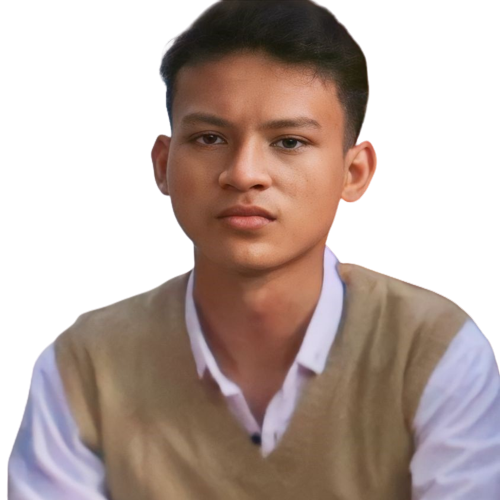
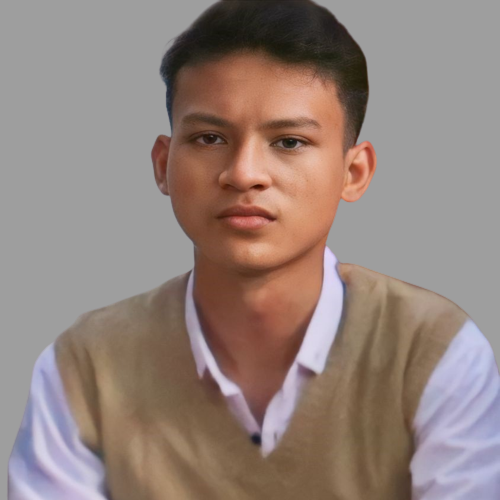
memperbaiki margin layar

diff --git a/index.html b/index.html
@@ -2,7 +2,7 @@
 <html lang="en">
   <head>
     <meta charset="utf-8" />
-    <meta name="viewport" content="width=device-width, initial-scale=1" />
+
     <title>Portfolio Fakhri Djamaris</title>
     <link href="https://cdn.jsdelivr.net/npm/bootstrap@5.3.1/dist/css/bootstrap.min.css" rel="stylesheet" integrity="sha384-4bw+/aepP/YC94hEpVNVgiZdgIC5+VKNBQNGCHeKRQN+PtmoHDEXuppvnDJzQIu9" crossorigin="anonymous" />
 
@@ -37,27 +37,27 @@
     </nav>
 
     <section class="jumbotron text-center text-white">
-      <img src="img/foto-saya.png" alt="Fakhri Djamaris" width="200" class="img-thumbnail rounded-circle" />
+      <img src="img/foto-saya.png" alt="Fakhri Djamaris" width="200" class="img-thumbnail-black rounded-circle" />
       <h1 class="display-4" data-aos="zoom-in-up" data-aos-duration="2000" data-aos-delay="1000">Fakhri Djamaris</h1>
       <p class="lead"></p>
       <svg xmlns="http://www.w3.org/2000/svg" viewBox="0 0 1440 320"><path fill="#ffffff" fill-opacity="1" d="M0,192L48,192C96,192,192,192,288,186.7C384,181,480,171,576,192C672,213,768,267,864,266.7C960,267,1056,213,1152,192C1248,171,1344,181,1392,186.7L1440,192L1440,320L1392,320C1344,320,1248,320,1152,320C1056,320,960,320,864,320C768,320,672,320,576,320C480,320,384,320,288,320C192,320,96,320,48,320L0,320Z"></path></svg>
     </section>
 
-    <section id="about" style="height: 780px">
+    <section id="about" style="min-height: 600px;">
       <div class="container">
-        <div class="row text-center mb-5" data-aos="fade-in" data-aos-duration="2000" data-aos-offset="550">
+        <div class="row text-center mb-4" data-aos="fade-in" data-aos-duration="2000" data-aos-offset="600">
           <div class="col">
             <h2>About Me</h2>
           </div>
         </div>
-        <div class="row justify-content-between fs-5 text-center">
-          <div class="col-md-4" data-aos="fade-right" data-aos-duration="1000" data-aos-offset="400">
+        <div class="row justify-content-center fs-5 text-center">
+          <div class="col-md-4" data-aos="fade-right" data-aos-duration="2000" data-aos-offset="550" >
             <p>
               I am a graduate of SMA Negeri 15 Medan, I have had an interest in learning computers since I was in junior high school. I was born in Medan and raised in Medan. I am the second of two children. Have a hobby of playing games,
               chess. My aspiration since childhood is to become an entrepreneur but maybe it has changed now.
             </p>
           </div>
-          <div class="col-md-4"data-aos="fade-left" data-aos-duration="1200">
+          <div class="col-md-4"data-aos="fade-left" data-aos-duration="2200" data-aos-delay="200" data-aos-offset="400">
             <p>
               Now I am an active student majoring in informatics engineering at the University of North Sumatra. During my studies I gained skills in the form of Microsoft Office tools, programming languages such as C, C++, Python, Java. I
               am interested in a career as a Data Analyst, Web Developer, and Android Developer, sorted from my biggest desire to the smallest.
@@ -74,36 +74,36 @@
             <h2>My Passion</h2>
           </div>
         </div>
-        <div class="row justify-content-center">
-          <div class="col-md-3">
+        <div class="row justify-content-evenly">
+          <div class="col-lg-3">
             <div class="card rounded mb-2" data-aos="zoom-in-up" data-aos-duration="2000">
               <a href="https://www.umn.ac.id/data-analyst-pengertian-tugas-dan-serba-serbinya/"><img src="img/data-analyst.jpg" class="card-img-top" alt="data analyst" /></a>
               <div class="card-body">
                 <h3 class="text-center">Data Analyst</h3>
-                <p class="card-text">
+                <p class="card-text text-center">
                   Data analyst is a job profession whose job is to read and analyze existing data from the company in order to sustain the company.
                 </p>
               </div>
             </div>
           </div>
-          <div class="col-md-3" data-aos="zoom-in-up" data-aos-duration="2000" data-aos-delay="200">
+          <div class="col-lg-3" data-aos="zoom-in-up" data-aos-duration="2000" data-aos-delay="200">
             <div class="card rounded mb-2">
               <a href="https://revou.co/panduan-karir/web-developer-adalah"><img src="img/web-developer.jpg" class="card-img-top" alt="web dev" height="200" /></a>
               <div class="card-body">
                 <h3 class="text-center">Website Developer</h3>
-                <p class="card-text">
+                <p class="card-text text-center">
                   A web developer is a person in charge of creating, designing, building, and maintaining websites. Web developers are generally divided into three specializations, namely front-end developers, back-end developers, and
                   full-stack developers. </a>
                 </p>
               </div>
             </div>
           </div>
-          <div class="col-md-3" data-aos="zoom-in-up" data-aos-duration="2000" data-aos-delay="400">
+          <div class="col-lg-3" data-aos="zoom-in-up" data-aos-duration="2000" data-aos-delay="400">
             <div class="card rounded mb-2">
               <a href="https://www.binaracademy.com/blog/android-developer-tanggung-jawab-skill-dan-karirnya"><img src="img/android-dev.jpg" class="card-img-top" alt="android dev" /></a>
               <div class="card-body">
                 <h3 class="text-center">Android Developer</h3>
-                <p class="card-text">
+                <p class="card-text text-center">
                   Android Developer can be said to be a software developer who specializes in designing applications for the Android marketplace.
                 </p>
               </div>
@@ -153,14 +153,14 @@
     </section>
 
     <footer class="bg-black text-white text-center p-3">
-      <div class="logo mt-3 mb-3">
+      <div class="logo pt-3 mt-3 mb-3">
         <a href="https://www.instagram.com/fdjmrs"><svg xmlns="http://www.w3.org/2000/svg" width="24"5 height="25" fill="currentColor" class="bi bi-instagram" data-aos="zoom-out-up" data-aos-duration="2000" data-aos-delay="2000" viewBox="0 0 16 16">
           <path d="M8 0C5.829 0 5.556.01 4.703.048 3.85.088 3.269.222 2.76.42a3.917 3.917 0 0 0-1.417.923A3.927 3.927 0 0 0 .42 2.76C.222 3.268.087 3.85.048 4.7.01 5.555 0 5.827 0 8.001c0 2.172.01 2.444.048 3.297.04.852.174 1.433.372 1.942.205.526.478.972.923 1.417.444.445.89.719 1.416.923.51.198 1.09.333 1.942.372C5.555 15.99 5.827 16 8 16s2.444-.01 3.298-.048c.851-.04 1.434-.174 1.943-.372a3.916 3.916 0 0 0 1.416-.923c.445-.445.718-.891.923-1.417.197-.509.332-1.09.372-1.942C15.99 10.445 16 10.173 16 8s-.01-2.445-.048-3.299c-.04-.851-.175-1.433-.372-1.941a3.926 3.926 0 0 0-.923-1.417A3.911 3.911 0 0 0 13.24.42c-.51-.198-1.092-.333-1.943-.372C10.443.01 10.172 0 7.998 0h.003zm-.717 1.442h.718c2.136 0 2.389.007 3.232.046.78.035 1.204.166 1.486.275.373.145.64.319.92.599.28.28.453.546.598.92.11.281.24.705.275 1.485.039.843.047 1.096.047 3.231s-.008 2.389-.047 3.232c-.035.78-.166 1.203-.275 1.485a2.47 2.47 0 0 1-.599.919c-.28.28-.546.453-.92.598-.28.11-.704.24-1.485.276-.843.038-1.096.047-3.232.047s-2.39-.009-3.233-.047c-.78-.036-1.203-.166-1.485-.276a2.478 2.478 0 0 1-.92-.598 2.48 2.48 0 0 1-.6-.92c-.109-.281-.24-.705-.275-1.485-.038-.843-.046-1.096-.046-3.233 0-2.136.008-2.388.046-3.231.036-.78.166-1.204.276-1.486.145-.373.319-.64.599-.92.28-.28.546-.453.92-.598.282-.11.705-.24 1.485-.276.738-.034 1.024-.044 2.515-.045v.002zm4.988 1.328a.96.96 0 1 0 0 1.92.96.96 0 0 0 0-1.92zm-4.27 1.122a4.109 4.109 0 1 0 0 8.217 4.109 4.109 0 0 0 0-8.217zm0 1.441a2.667 2.667 0 1 1 0 5.334 2.667 2.667 0 0 1 0-5.334z"/>
         </svg></a>
-        <a href="https://www.linkedin.com/in/fakhri-djamaris"><svg xmlns="http://www.w3.org/2000/svg" width="25" height="25" fill="currentColor" class="bi bi-linkedin" data-aos="zoom-out-up" data-aos-duration="2000" data-aos-delay="2200" viewBox="0 0 16 16">
+        <a href="https://www.linkedin.com/in/fakhri-djamaris"><svg xmlns="http://www.w3.org/2000/svg" width="25" height="25" fill="currentColor" class="bi bi-linkedin ms-3" data-aos="zoom-out-up" data-aos-duration="2000" data-aos-delay="2200" viewBox="0 0 16 16">
           <path d="M0 1.146C0 .513.526 0 1.175 0h13.65C15.474 0 16 .513 16 1.146v13.708c0 .633-.526 1.146-1.175 1.146H1.175C.526 16 0 15.487 0 14.854V1.146zm4.943 12.248V6.169H2.542v7.225h2.401zm-1.2-8.212c.837 0 1.358-.554 1.358-1.248-.015-.709-.52-1.248-1.342-1.248-.822 0-1.359.54-1.359 1.248 0 .694.521 1.248 1.327 1.248h.016zm4.908 8.212V9.359c0-.216.016-.432.08-.586.173-.431.568-.878 1.232-.878.869 0 1.216.662 1.216 1.634v3.865h2.401V9.25c0-2.22-1.184-3.252-2.764-3.252-1.274 0-1.845.7-2.165 1.193v.025h-.016a5.54 5.54 0 0 1 .016-.025V6.169h-2.4c.03.678 0 7.225 0 7.225h2.4z"/>
         </svg></a>
-        <a href="https://wa.me/+6281959243545"><svg xmlns="http://www.w3.org/2000/svg" width="25" height="25" fill="currentColor" class="bi bi-whatsapp" data-aos="zoom-out-up" data-aos-duration="2000" data-aos-delay="2400" viewBox="0 0 16 16">
+        <a href="https://wa.me/+6281959243545"><svg xmlns="http://www.w3.org/2000/svg" width="25" height="25" fill="currentColor" class="bi bi-whatsapp ms-3" data-aos="zoom-out-up" data-aos-duration="2000" data-aos-delay="2400" viewBox="0 0 16 16">
           <path d="M13.601 2.326A7.854 7.854 0 0 0 7.994 0C3.627 0 .068 3.558.064 7.926c0 1.399.366 2.76 1.057 3.965L0 16l4.204-1.102a7.933 7.933 0 0 0 3.79.965h.004c4.368 0 7.926-3.558 7.93-7.93A7.898 7.898 0 0 0 13.6 2.326zM7.994 14.521a6.573 6.573 0 0 1-3.356-.92l-.24-.144-2.494.654.666-2.433-.156-.251a6.56 6.56 0 0 1-1.007-3.505c0-3.626 2.957-6.584 6.591-6.584a6.56 6.56 0 0 1 4.66 1.931 6.557 6.557 0 0 1 1.928 4.66c-.004 3.639-2.961 6.592-6.592 6.592zm3.615-4.934c-.197-.099-1.17-.578-1.353-.646-.182-.065-.315-.099-.445.099-.133.197-.513.646-.627.775-.114.133-.232.148-.43.05-.197-.1-.836-.308-1.592-.985-.59-.525-.985-1.175-1.103-1.372-.114-.198-.011-.304.088-.403.087-.088.197-.232.296-.346.1-.114.133-.198.198-.33.065-.134.034-.248-.015-.347-.05-.099-.445-1.076-.612-1.47-.16-.389-.323-.335-.445-.34-.114-.007-.247-.007-.38-.007a.729.729 0 0 0-.529.247c-.182.198-.691.677-.691 1.654 0 .977.71 1.916.81 2.049.098.133 1.394 2.132 3.383 2.992.47.205.84.326 1.129.418.475.152.904.129 1.246.08.38-.058 1.171-.48 1.338-.943.164-.464.164-.86.114-.943-.049-.084-.182-.133-.38-.232z"/>
         </svg></a>
       </div>

diff --git a/style.css b/style.css
@@ -1,23 +1,24 @@
+* {
+  box-sizing: border-box;
+  margin: 0;
+  padding: 0;
+}
+
 body {
-  max-width: 100%;
-  min-height: auto;
+  max-height: 100%;
 }
 .jumbotron {
-  padding-right: 0;
-  padding-top: 7rem;
+  padding-top: 6rem;
   background: linear-gradient(#282727, #0b0b0b);
 }
 
 #mypassion {
-  margin-top: 20px;
+  padding-top: 20px;
   background-image: url(img/wp8176705.jpg);
   background-position: center;
   background-attachment: fixed;
+  background-repeat: no-repeat;
   background-size: cover;
-}
-
-section {
-  padding-top: 5rem;
 }
 
 li a {
@@ -47,10 +48,6 @@ input:focus-visible[type='email'] {
 
 #pesan {
   color: white;
-}
-
-.logo a {
-  margin-left: 13px;
 }
 
 .navbar {
